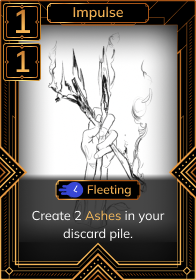
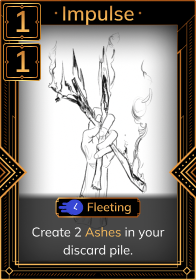
Updated dove, impulse, pet images. Made more of builder blank white

diff --git a/src/scene/builderRegions/decklists.ts b/src/scene/builderRegions/decklists.ts
@@ -91,7 +91,7 @@ export default class DecklistsRegion {
 					bottom: 10,
 					line: 10,
 				}}).addBackground(
-				this.scene.add.rectangle(0, 0, width, Space.windowHeight, 0xFFF00F)
+				this.scene.add.rectangle(0, 0, width, Space.windowHeight, Color.background)
 				)
 
 		this.updateOnScroll(this.panel)

diff --git a/src/scene/builderRegions/deck.ts b/src/scene/builderRegions/deck.ts
@@ -100,7 +100,7 @@ export default class DeckRegion {
 			bottom: 10,
 			// line: 10,//80 - Space.cardHeight,
 		}}).addBackground(
-		this.scene.add.rectangle(0, 0, width, Space.windowHeight, 0xF44FFF)
+		this.scene.add.rectangle(0, 0, width, Space.windowHeight, Color.background)
 		)
 
 		return this.panel

diff --git a/src/settings/color.ts b/src/settings/color.ts
@@ -20,7 +20,7 @@ const CoreColors: Record<string, any> = {
 
 
   // Trial colors
-  background: 0xF5F2EB,
+  background: 0xFFFFFF,//0xF5F2EB,
 
   c1: 0x664930,
   c1s: '#664930',
